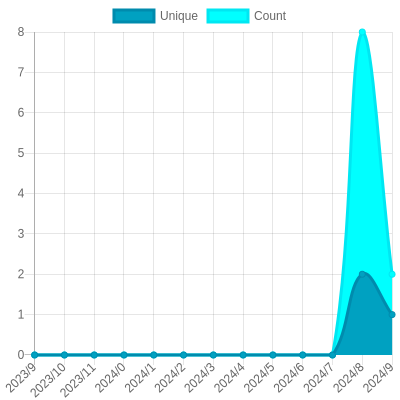
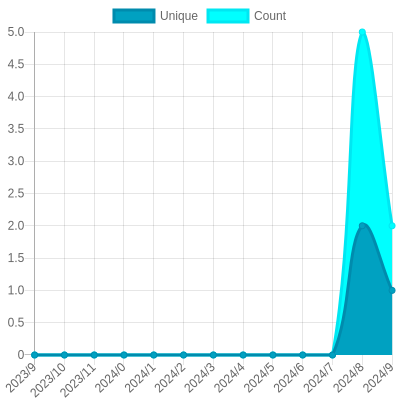
Update views

diff --git a/readme/619275366/year.md b/readme/619275366/year.md
@@ -37,7 +37,7 @@
 			<code>2</code>
 		</td>
 		<td>
-			<code>8</code>
+			<code>5</code>
 		</td>
 	</tr>
 	<tr>
@@ -164,7 +164,7 @@
 </table>
 
 </details>
-<small><i>Last updated on 2023/10/13 12:52 AM UTC</i></small>
+<small><i>Last updated on 2023/10/13 6:15 AM UTC</i></small>
 
 ## ✂Copy and 📋 Paste
 ### SVG Badge

diff --git a/README.md b/README.md
@@ -117,7 +117,7 @@ The project created and maintained by [gayanvoice](https://github.com/gayanvoice
 	</tr>
 </table>
 
-<small><i>Last updated on 2023/10/13 12:53 AM UTC</i></small>
+<small><i>Last updated on 2023/10/13 6:16 AM UTC</i></small>
 
 ## ✂Copy and 📋 Paste
 ### Total Views Badge

diff --git a/readme/619128532/year.md b/readme/619128532/year.md
@@ -164,7 +164,7 @@
 </table>
 
 </details>
-<small><i>Last updated on 2023/10/13 12:52 AM UTC</i></small>
+<small><i>Last updated on 2023/10/13 6:15 AM UTC</i></small>
 
 ## ✂Copy and 📋 Paste
 ### SVG Badge

diff --git a/readme/619164835/year.md b/readme/619164835/year.md
@@ -164,7 +164,7 @@
 </table>
 
 </details>
-<small><i>Last updated on 2023/10/13 12:53 AM UTC</i></small>
+<small><i>Last updated on 2023/10/13 6:16 AM UTC</i></small>
 
 ## ✂Copy and 📋 Paste
 ### SVG Badge

diff --git a/readme/619550591/year.md b/readme/619550591/year.md
@@ -164,7 +164,7 @@
 </table>
 
 </details>
-<small><i>Last updated on 2023/10/13 12:52 AM UTC</i></small>
+<small><i>Last updated on 2023/10/13 6:16 AM UTC</i></small>
 
 ## ✂Copy and 📋 Paste
 ### SVG Badge

diff --git a/readme/662394435/year.md b/readme/662394435/year.md
@@ -164,7 +164,7 @@
 </table>
 
 </details>
-<small><i>Last updated on 2023/10/13 12:53 AM UTC</i></small>
+<small><i>Last updated on 2023/10/13 6:16 AM UTC</i></small>
 
 ## ✂Copy and 📋 Paste
 ### SVG Badge

diff --git a/readme/697110580/year.md b/readme/697110580/year.md
@@ -164,7 +164,7 @@
 </table>
 
 </details>
-<small><i>Last updated on 2023/10/13 12:52 AM UTC</i></small>
+<small><i>Last updated on 2023/10/13 6:16 AM UTC</i></small>
 
 ## ✂Copy and 📋 Paste
 ### SVG Badge
